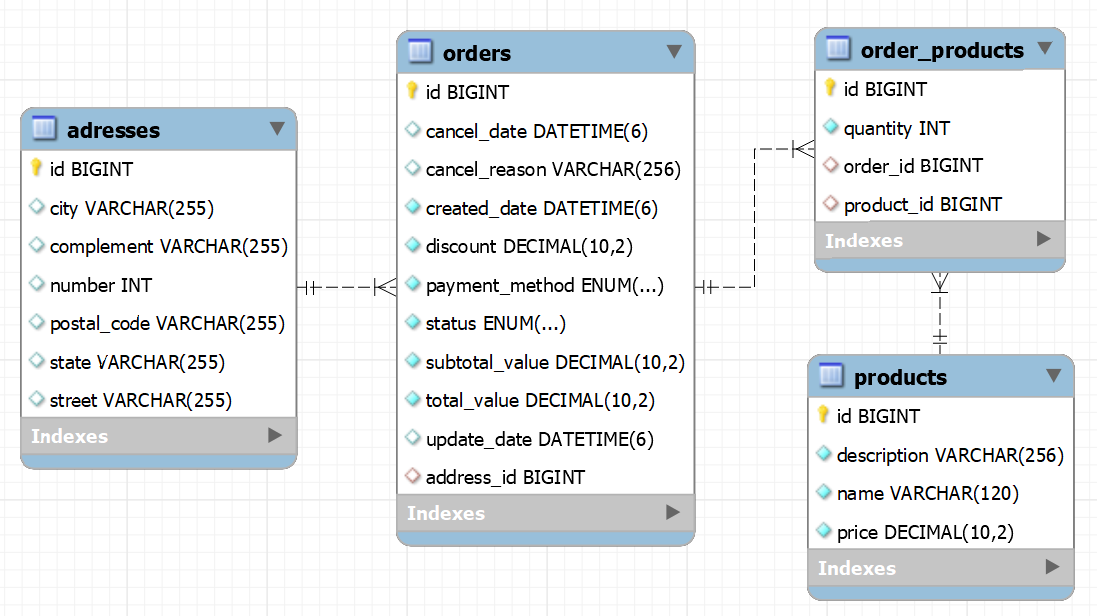
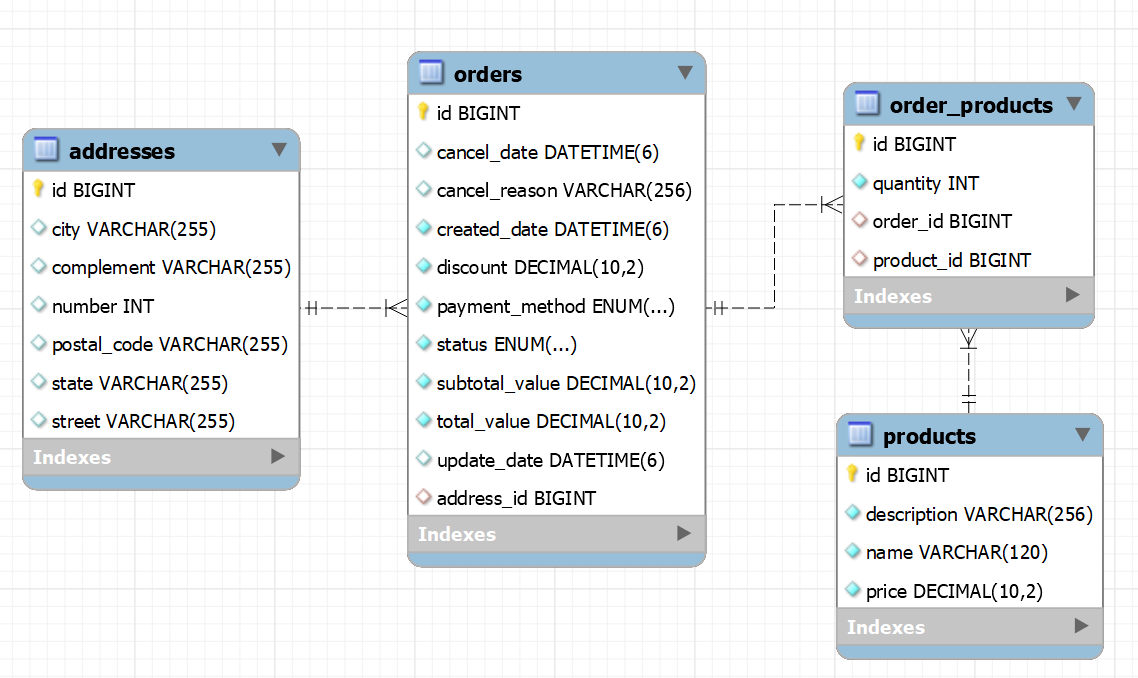
refactor: Renomeia nome da tabela de endereços.

Changed region(s): [[0.3099, 0.0308, 0.6509, 0.8945], [0.6819, 0.0308, 0.9918, 0.987], [0.0, 0.1542, 0.3099, 0.7711]]

diff --git a/src/main/java/com/compassuol/sp/challenge/ecommerce/domain/order/model/Address.java b/src/main/java/com/compassuol/sp/challenge/ecommerce/domain/order/model/Address.java
@@ -13,7 +13,7 @@ import lombok.*;
 @Builder
 @EqualsAndHashCode
 @Entity
-@Table(name = "adresses")
+@Table(name = "addresses")
 public class Address {
     @Id
     @GeneratedValue(strategy = GenerationType.IDENTITY)
